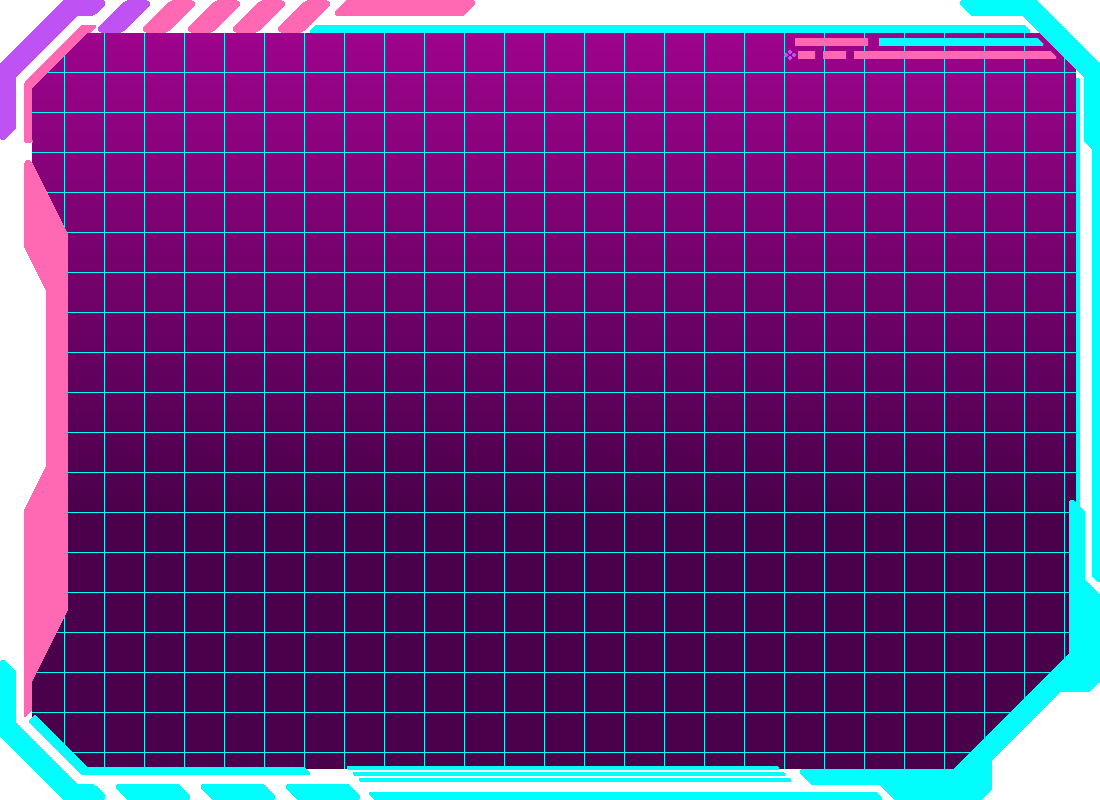
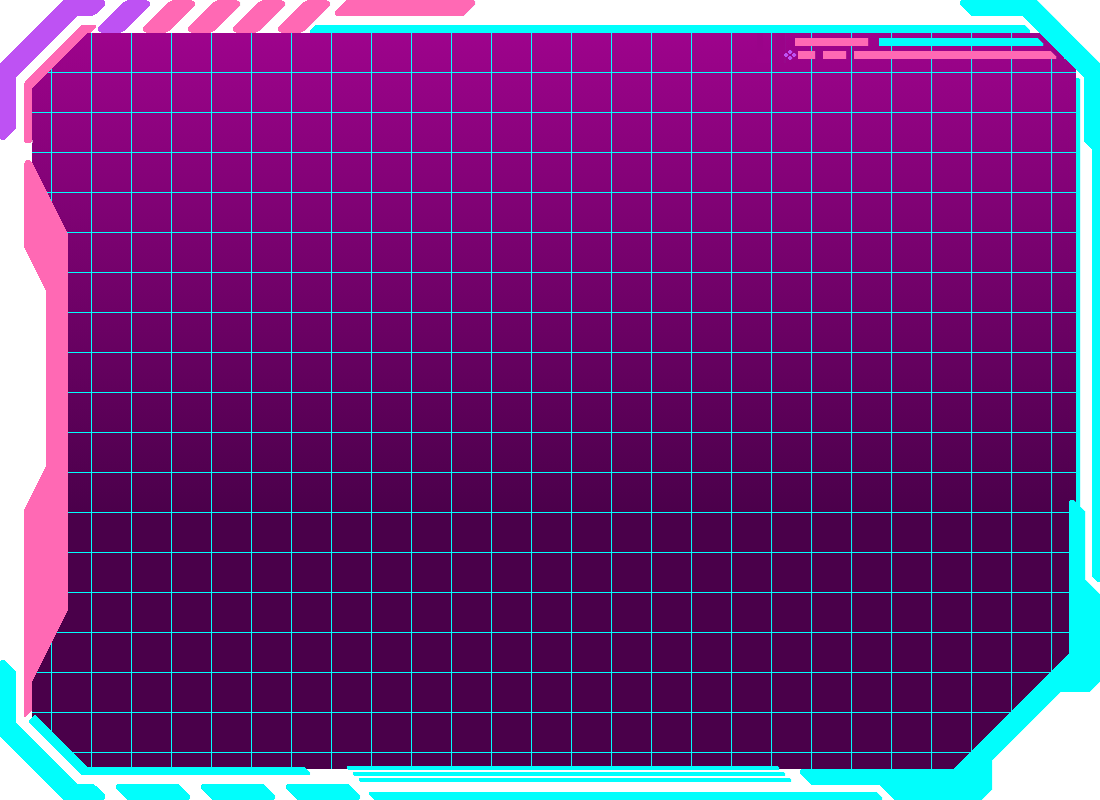
Some fixes to main app backgrounds

diff --git a/main.py b/main.py
@@ -66,7 +66,7 @@ class CustomWindow(QtWidgets.QMainWindow):
 
         # Overlay backgrounds
         painter = QPainter(composed_image)
-        painter.setOpacity(0.1)
+        painter.setOpacity(config.transbckg)
         painter.drawPixmap(0, 0, bottom_pixmap)
         painter.setOpacity(1.0)
         painter.drawPixmap(0, 0, top_pixmap)

diff --git a/speechhead.py b/speechhead.py
@@ -49,7 +49,7 @@ class Speechbot(QtWidgets.QWidget):
 
         # Overlay backgrounds
         painter = QPainter(composed_image)
-        painter.setOpacity(0.1)
+        painter.setOpacity(config.transbckg)
         painter.drawPixmap(0, 0, bottom_pixmap)
         painter.setOpacity(1.0)
         painter.drawPixmap(0, 0, top_pixmap)

diff --git a/texthead.py b/texthead.py
@@ -39,7 +39,7 @@ class Chatbot(QtWidgets.QWidget):
 
         # Overlay backgrounds
         painter = QPainter(composed_image)
-        painter.setOpacity(0.1)
+        painter.setOpacity(config.transbckg)
         painter.drawPixmap(0, 0, bottom_pixmap)
         painter.setOpacity(1.0)
         painter.drawPixmap(0, 0, top_pixmap)
